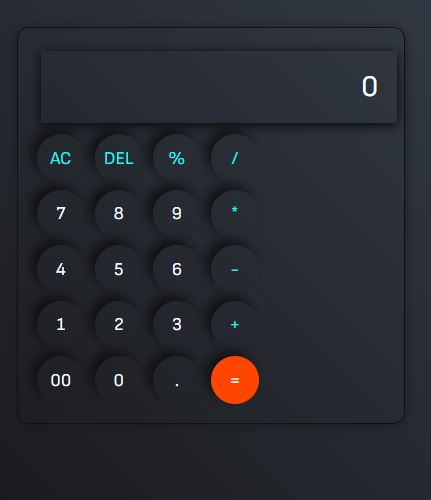
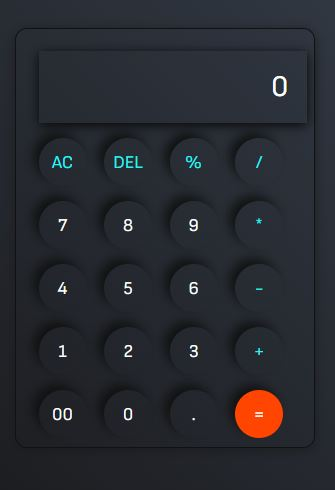
Calculator

diff --git a/style.css b/style.css
@@ -14,6 +14,8 @@ body{
     background: linear-gradient(45deg, #131111, #3a4452);
 }
     .calculator{
+        height: 35rem;
+        width: 25rem;
         border: 1px solid #101111;
         padding: 20px;
         border-radius: 16px;
@@ -39,7 +41,7 @@ body{
         border: none;
         width: 4rem;
         height: 4rem;
-        margin: 5px;
+        margin: 10px;
         border-radius: 50%;
         font-size: 1.5rem;
         background: transparent;
